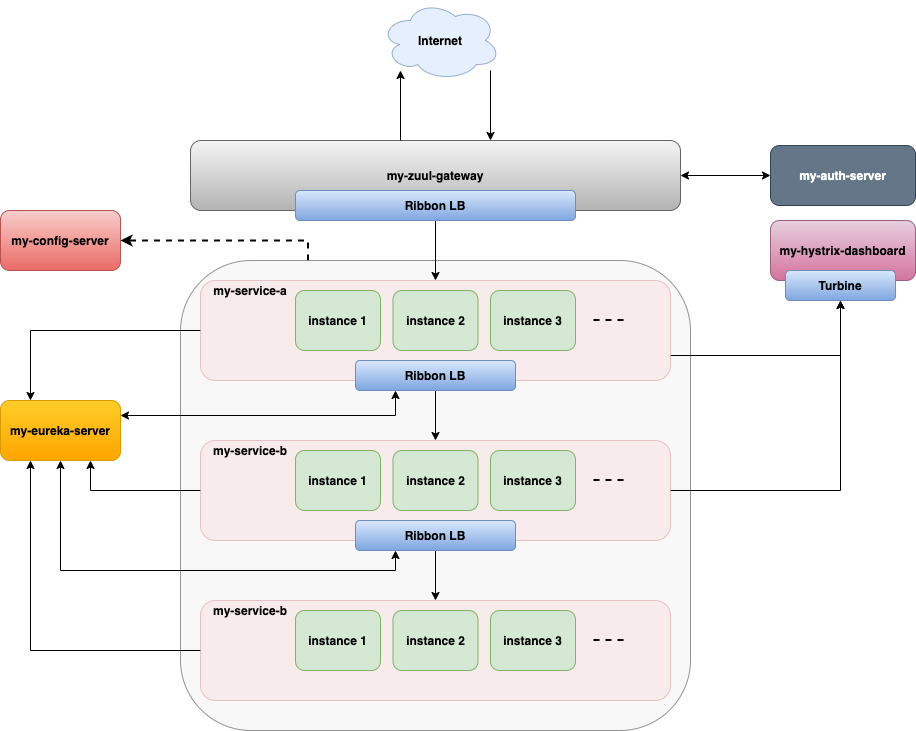
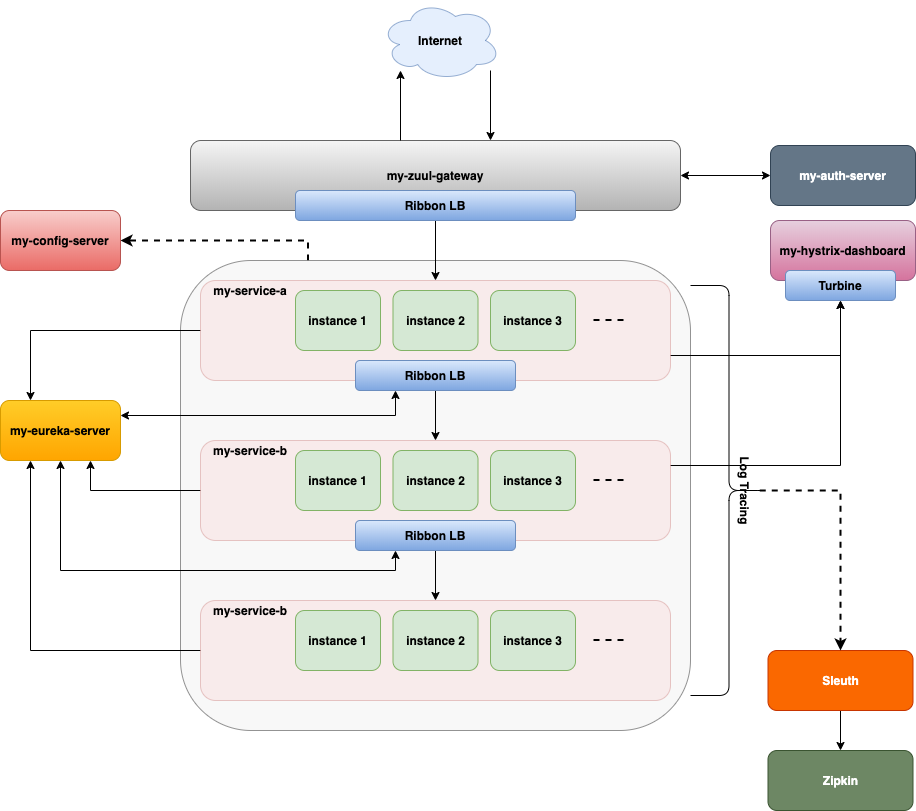
fourth commit

diff --git a/my-zuul-gateway/src/main/java/com/demo/boot/support/security/SecurityTokenConfig.java b/my-zuul-gateway/src/main/java/com/demo/boot/support/security/SecurityTokenConfig.java
@@ -31,9 +31,10 @@ public class SecurityTokenConfig extends WebSecurityConfigurerAdapter {
 				.authorizeRequests()
 				// allow all who are accessing "auth" service
 				.antMatchers(HttpMethod.POST, jwtConfig.getUri()).permitAll()
-				// must be an admin if trying to access admin area (authentication is also
-				// required here)
-				.antMatchers("/gallery" + "/admin/**").hasRole("ADMIN")
+				// must be an admin if trying to access health info (authentication is also required here)
+				.antMatchers("/health").hasRole("ADMIN")
+				// must be an User if trying to fetch details of underlying services (authentication is also required here)
+				.antMatchers("/fetch-bc").hasRole("USER")
 				// Any other request must be authenticated
 				.anyRequest().authenticated();
 	}

diff --git a/my-auth-server/src/main/java/com/demo/boot/support/authenticate/UserDetailsServiceImpl.java b/my-auth-server/src/main/java/com/demo/boot/support/authenticate/UserDetailsServiceImpl.java
@@ -1,4 +1,4 @@
-package com.demo.boot.support.authente;
+package com.demo.boot.support.authenticate;
 
 import java.util.Arrays;
 import java.util.List;
@@ -12,6 +12,8 @@ import org.springframework.security.core.userdetails.UserDetailsService;
 import org.springframework.security.core.userdetails.UsernameNotFoundException;
 import org.springframework.security.crypto.bcrypt.BCryptPasswordEncoder;
 import org.springframework.stereotype.Service;
+
+import com.demo.boot.support.authenticate.pojo.AppUser;
 
 @Service // It has to be annotated with @Service.
 public class UserDetailsServiceImpl implements UserDetailsService {

diff --git a/my-auth-server/src/main/java/com/demo/boot/support/security/JwtUsernameAndPasswordAuthenticationFilter.java b/my-auth-server/src/main/java/com/demo/boot/support/security/JwtUsernameAndPasswordAuthenticationFilter.java
@@ -18,7 +18,7 @@ import org.springframework.security.core.GrantedAuthority;
 import org.springframework.security.web.authentication.UsernamePasswordAuthenticationFilter;
 import org.springframework.security.web.util.matcher.AntPathRequestMatcher;
 
-import com.demo.boot.support.authente.UserCredentials;
+import com.demo.boot.support.authenticate.pojo.UserCredentials;
 import com.fasterxml.jackson.databind.ObjectMapper;
 
 import io.jsonwebtoken.Jwts;

diff --git a/my-auth-server/src/main/java/com/demo/boot/support/MyAuthServerApplication.java b/my-auth-server/src/main/java/com/demo/boot/support/MyAuthServerApplication.java
@@ -2,8 +2,10 @@ package com.demo.boot.support;
 
 import org.springframework.boot.SpringApplication;
 import org.springframework.boot.autoconfigure.SpringBootApplication;
+import org.springframework.cloud.netflix.eureka.EnableEurekaClient;
 
 @SpringBootApplication
+@EnableEurekaClient
 public class MyAuthServerApplication {
 
 	public static void main(String[] args) {

diff --git a/my-auth-server/src/main/java/com/demo/boot/support/authenticate/pojo/AppUser.java b/my-auth-server/src/main/java/com/demo/boot/support/authenticate/pojo/AppUser.java
@@ -1,4 +1,4 @@
-package com.demo.boot.support.authente;
+package com.demo.boot.support.authenticate.pojo;
 
 import lombok.AllArgsConstructor;
 import lombok.Getter;

diff --git a/my-auth-server/src/main/java/com/demo/boot/support/authenticate/pojo/UserCredentials.java b/my-auth-server/src/main/java/com/demo/boot/support/authenticate/pojo/UserCredentials.java
@@ -1,4 +1,4 @@
-package com.demo.boot.support.authente;
+package com.demo.boot.support.authenticate.pojo;
 
 import lombok.Getter;
 import lombok.Setter;

diff --git a/README.md b/README.md
@@ -7,7 +7,7 @@
 - Spring Boot 2.x
 - Spring Cloud Netflix Hoxton.SR1
 - Spring Cloud Security
-- JWT + Oauth2.0
+- JWT
 
 # Spring + Netflix OSS Stack
 - Netflix Eureka Server
@@ -16,6 +16,9 @@
 - Netflix Hystrix
 - Netflix Turbine
 - Netflix Feign
+- Sleuth
+- Zipkin
+
 
 # Steps to bring it up
 
@@ -71,3 +74,49 @@
 - To add some load
 	- while true; do curl -i http://localhost:8080/fetch-bc; done
 	- while true; do curl -i http://localhost:8081/fetch-b; done
+
+8) Spin up Zipkin server and ui
+- docker run -d -p 9411:9411 openzipkin/zipkin
+- http://localhost:9411/zipkin/
+
+9) Spin up ELK in local
+- Create 02-beats-input.conf
+```
+input {
+  tcp {
+    port => 5044
+    ssl => false
+  }
+}
+```
+- Create 30-output.conf
+```
+filter {
+  json {
+    source => "message"
+  }
+}
+output {
+  elasticsearch {
+    hosts => ["localhost:9200"]
+    manage_template => false
+    index => "logstash-local"
+  }
+}
+```
+- Create Dockerfile
+```
+FROM sebp/elk
+
+# overwrite existing file
+RUN rm /etc/logstash/conf.d/30-output.conf
+COPY 30-output.conf /etc/logstash/conf.d/30-output.conf
+
+RUN rm /etc/logstash/conf.d/02-beats-input.conf
+COPY 02-beats-input.conf /etc/logstash/conf.d/02-beats-input.conf
+```
+- Build docker with docker build -t local-elk .
+- Run docker image with docker run -p 5601:5601 -p 9200:9200 -p 5044:5044 -it --name elk local-elk
+- Kibana on port 5601, ElasticSearch on port 9200 and LogStash on port 5044
+- Check on http://localhost:5601 for Kibana
+
